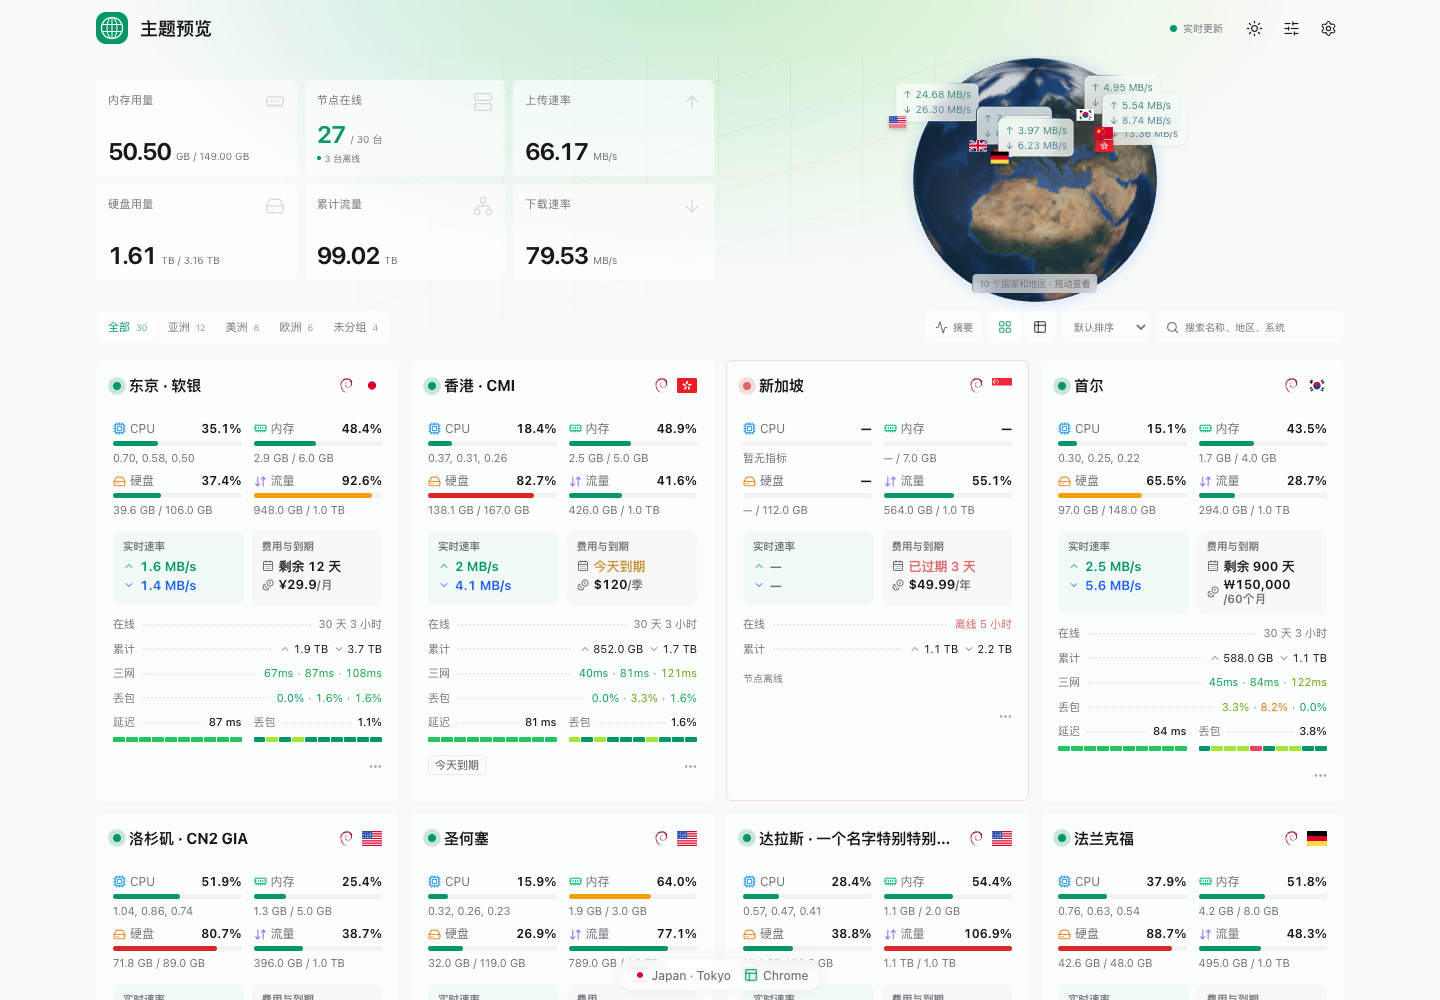
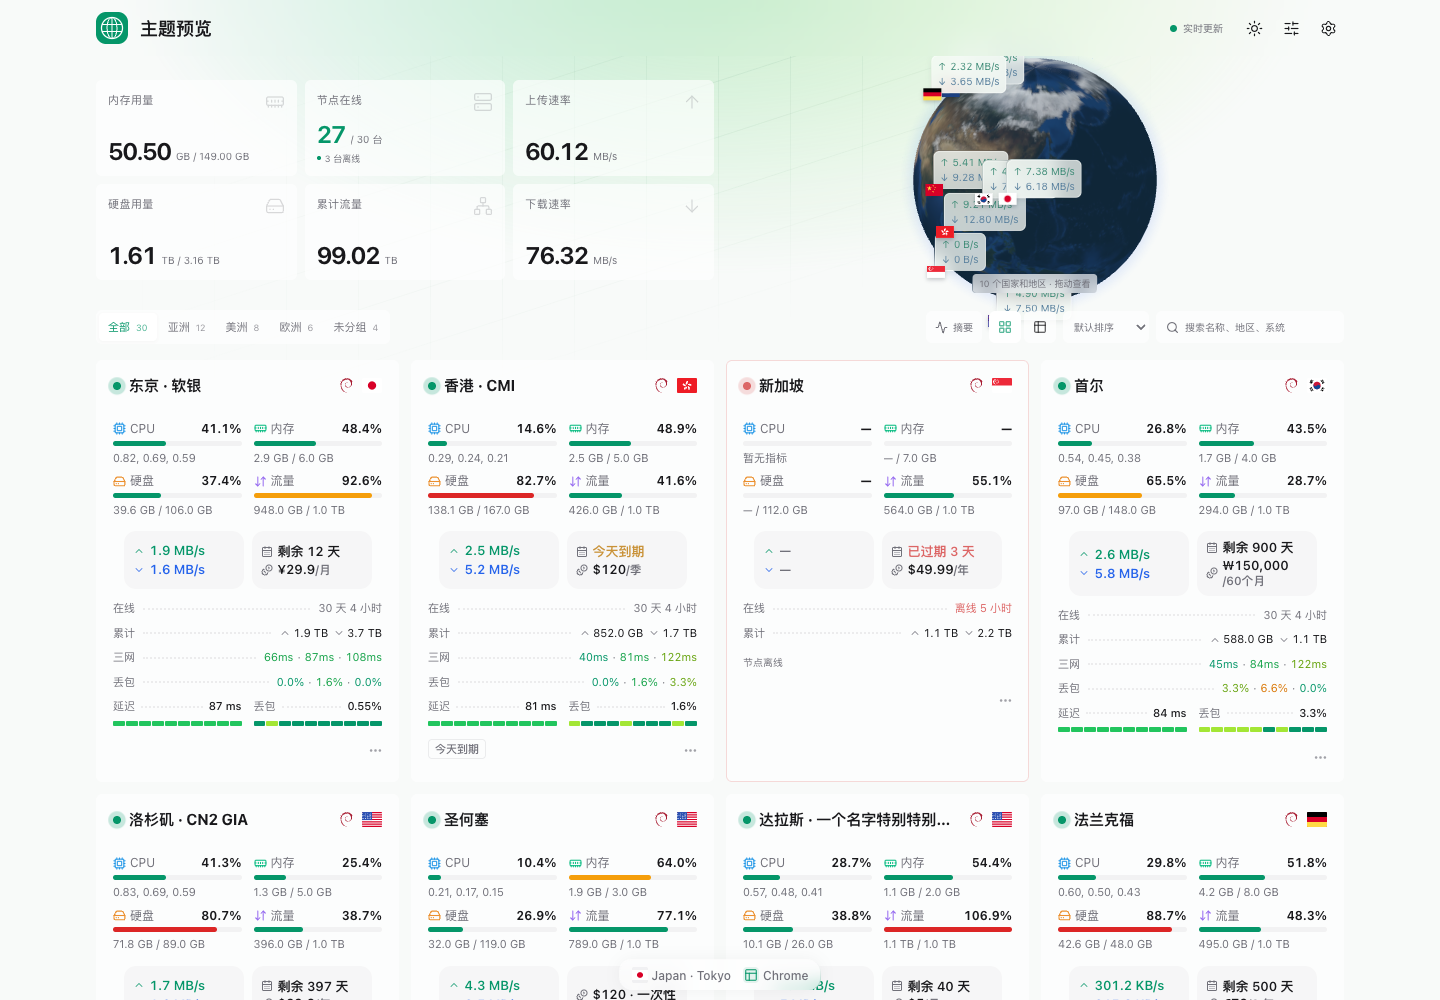
match compact reference tiles

diff --git a/src/styles.css b/src/styles.css
@@ -359,12 +359,9 @@ svg { flex-shrink: 0; }
 .node-card .meter-icon-traffic { color: #976cf0; }
 .node-card .meter-label .data-number { font-weight: 650; }
 .node-card .meter-track { height: 5px; }
-.node-highlights { display: grid; grid-template-columns: repeat(var(--highlight-count), minmax(0, 1fr)); gap: 8px; margin-bottom: 11px; }
-.highlight-tile { display: flex; flex-direction: column; min-width: 0; min-height: 74px; padding: 9px 10px 8px; border-radius: 9px; }
-.highlight-tile-speed { background: color-mix(in srgb, var(--emerald) 5%, var(--surface-solid)); }
-.highlight-tile-billing { background: color-mix(in srgb, var(--muted) 5%, var(--surface-solid)); }
-.highlight-label { margin-bottom: 5px; color: var(--muted); font-size: 10.5px; font-weight: 550; line-height: 1.2; }
-.highlight-value { display: flex; align-items: center; min-width: 0; gap: 5px; overflow: hidden; text-overflow: ellipsis; white-space: nowrap; color: var(--foreground); font-size: 13px; font-weight: 620; line-height: 1.3; font-variant-numeric: tabular-nums; }
+.node-highlights { display: grid; grid-template-columns: repeat(var(--highlight-count), minmax(0, min(120px, calc(50% - 4px)))); justify-content: center; gap: 8px; margin-bottom: 11px; }
+.highlight-tile { display: flex; flex-direction: column; justify-content: center; min-width: 0; min-height: 58px; padding: 8px 9px; border-radius: 12px; background: color-mix(in srgb, var(--muted) 6%, var(--surface-solid)); }
+.highlight-value { display: flex; align-items: center; min-width: 0; gap: 5px; overflow: hidden; text-overflow: ellipsis; white-space: nowrap; color: var(--foreground); font-size: 13px; font-weight: 550; line-height: 1.3; font-variant-numeric: tabular-nums; }
 .highlight-value + .highlight-value { margin-top: 2px; }
 .highlight-value svg { width: 12px; height: 12px; flex: none; color: var(--muted); }
 .highlight-value.up svg { color: var(--emerald); }
@@ -377,6 +374,8 @@ svg { flex-shrink: 0; }
 .highlight-cost-text { min-width: 0; white-space: normal; overflow-wrap: anywhere; line-height: 1.2; }
 .highlight-cycle { color: var(--muted); font-size: .9em; white-space: nowrap; }
 .highlight-cycle-break { display: block; }
+.card-size-mini .highlight-tile { padding-inline: 7px; }
+.card-size-mini .highlight-value { font-size: 11.5px; gap: 3px; }
 .node-highlights + .node-facts { margin-bottom: 8px; }
 .cumulative-rates { color: var(--foreground); font-variant-numeric: tabular-nums; }
 .cumulative-rates svg { color: var(--muted); }

diff --git a/src/components/NodeCard.vue b/src/components/NodeCard.vue
@@ -44,13 +44,11 @@ const expiryClass = computed(() => ({ expiring: props.node.expires_in !== null &
         <ResourceMeter v-if="config.show_traffic" icon="traffic" label="流量" :value="traffic" :detail="`${cardBytes(node.month_used)} / ${node.traffic_limit ? cardBytes(node.traffic_limit) : '∞'}`" :detail-title="`${formatBytes(node.month_used)} / ${node.traffic_limit ? formatBytes(node.traffic_limit) : '∞'}`" :warning-at="80" :danger-at="100" />
       </div>
       <div v-if="highlightCount" class="node-highlights" :style="{ '--highlight-count': highlightCount }">
-        <div v-if="config.show_speed" class="highlight-tile highlight-tile-speed" role="group" aria-label="实时速率">
-          <span class="highlight-label">实时速率</span>
+        <div v-if="config.show_speed" class="highlight-tile" role="group" aria-label="实时速率">
           <span class="highlight-value up" :class="{ 'highlight-empty': !node.metrics }" :title="formatBytes(node.metrics?.net_tx, true)"><ChevronUp />{{ cardBytes(node.metrics?.net_tx, true) }}</span>
           <span class="highlight-value down" :class="{ 'highlight-empty': !node.metrics }" :title="formatBytes(node.metrics?.net_rx, true)"><ChevronDown />{{ cardBytes(node.metrics?.net_rx, true) }}</span>
         </div>
-        <div v-if="hasBilling" class="highlight-tile highlight-tile-billing" role="group" :aria-label="showPrice && hasExpiry ? '费用与到期' : showPrice ? '费用' : '到期'">
-          <span class="highlight-label">{{ showPrice && hasExpiry ? '费用与到期' : showPrice ? '费用' : '到期' }}</span>
+        <div v-if="hasBilling" class="highlight-tile" role="group" :aria-label="showPrice && hasExpiry ? '费用与到期' : showPrice ? '费用' : '到期'">
           <span v-if="hasExpiry" class="highlight-value highlight-expiry" :class="expiryClass" :title="`${node.expires_at || ''} ${expiryLabel(node.expires_in)}`"><CalendarDays />{{ expiryText }}</span>
           <span v-if="showPrice" class="highlight-value highlight-cost" :title="costTitle"><Coins /><span class="highlight-cost-text">{{ costParts[0] }}<span v-if="costParts[1]" class="highlight-cycle" :class="{ 'highlight-cycle-break': longCost }">/{{ costParts[1] }}</span></span></span>
         </div>
